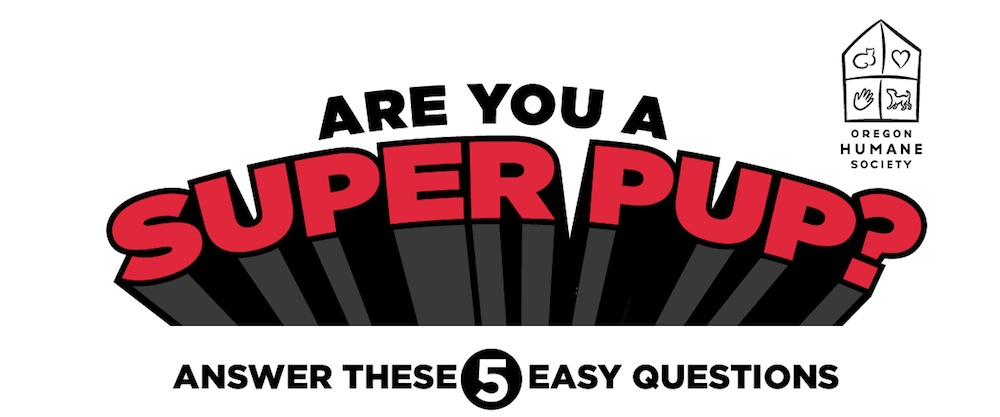
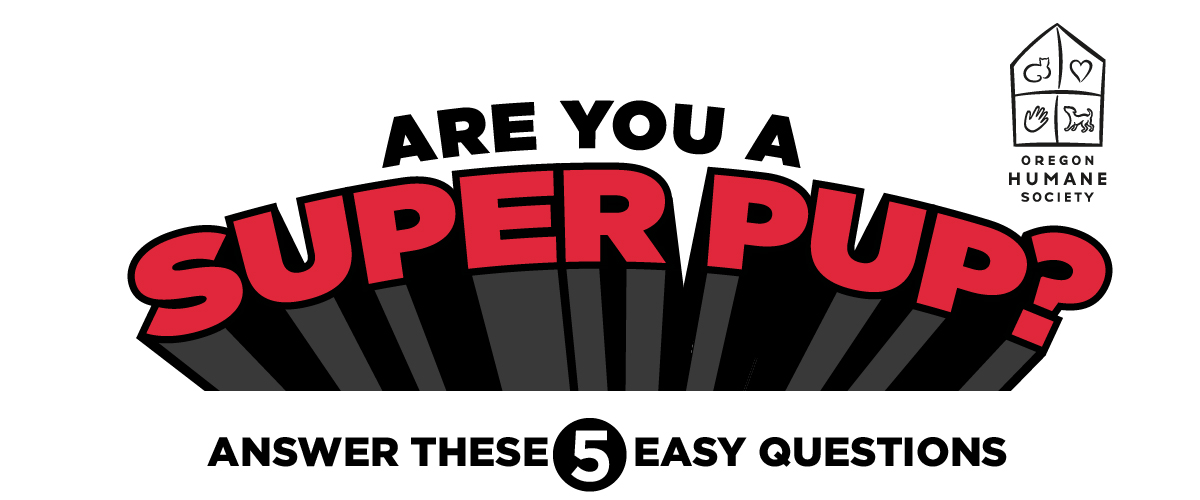
added gifs, result pages

diff --git a/index.html b/index.html
@@ -11,11 +11,11 @@
 
 <body>
   <div id="quizapp">
-    <div class="welcomePage">
-      <img src="img/quiz/SuperQuiz_Header.jpg" class="img-responsive" alt="Doggie Dash Super Quiz">
-      <a class="btn btn-success" id="startButton" role="button">Start Quiz Now!</a>
-      <img src="img/quiz/stars.jpg" class="img-responsive" alt="stars">
+    <div id="header">
+      <img src="img/quiz/SuperQuiz_Header.jpg" alt="Doggie Dash Super Quiz">
     </div>
+      <!--<a class="btn btn-success" id="startButton" role="button">Start Quiz Now!</a> -->
+      <img src="img/quiz/stars.jpg" class="img-responsive" alt="stars">
     
     <div class="questions"> 
       <div id="question1">
@@ -23,7 +23,7 @@
         <div class="answers">
           <div class="answerA">
             <input type="radio" name="question1" value="1">  I hop off the sofa, waddle over and lie happily right on their feet.</input>
-          
+          </div>
           <div class="answerB">
             <input type="radio" name="question1" value="1">  BARKING AT THE TOP OF MY LUNGS! LOUDNESS IS THE FINEST FORM OF LOVE!</input>
           </div>  
@@ -44,10 +44,13 @@
           </div>
         </div>  
       </div>
-    </div>
 
       <img src="img/quiz/stars.jpg" class="img-responsive" alt="stars">
-      
+      <br>
+      <img src="img/FlyingDoggie.gif" class="img-responsive" alt="Flying Dog">
+      <br>
+      <img src="img/quiz/stars.jpg" class="img-responsive" alt="stars">
+
       <div id="question2">
         <h3>What is your favorite part of going on a walk?</h3>
           <div class="answers">
@@ -105,6 +108,10 @@
       </div>
 
       <img src="img/quiz/stars.jpg" class="img-responsive" alt="stars">
+      <br>
+      <img src="img/bugEater.gif" class="img-responsive" alt="Chihuaha eating bug">
+      <br>
+      <img src="img/quiz/stars.jpg" class="img-responsive" alt="stars">
 
       <div id="question4">
         <h3>What's your ideal Saturday morning?</h3>
@@ -133,6 +140,10 @@
         </div>
       </div>
 
+      <img src="img/quiz/stars.jpg" class="img-responsive" alt="stars">
+      <br>
+      <img src="img/laserEyes.gif" class="img-responsive" alt="stars">
+      <br>
       <img src="img/quiz/stars.jpg" class="img-responsive" alt="stars">
 
       <div id="question5">
@@ -164,9 +175,12 @@
       
       <img src="img/quiz/stars.jpg" class="img-responsive" alt="stars"> 
       <br>
-      <img src="img/quiz/SuperQuiz_Button.jpg" class="img-responsive" id="findResult" role="button"></a>
 
+      <input type="image" src="img/quiz/SuperQuiz_Button.jpg" id="findResult" alt="What kind of Super Pup am I?">
+      <!--<img src="img/quiz/SuperQuiz_Button.jpg" class="img-responsive" id="findResult" role="button"></a>-->
+      <br>
       <img src="img/quiz/stars.jpg" class="img-responsive" alt="stars"> 
+
     </div>
   </div>
 

diff --git a/js/main.js b/js/main.js
@@ -67,19 +67,19 @@ $("input:radio").click(function() {
 
 	$("#findResult").click(function() {
 		if (counterA > counterB && counterA > counterC && counterA > counterD && counterA > counterE && counterA > counterF && counterA > counterG) {
-			window.location.href = "file://localhost/Users/adeats/Desktop/OHS2/snuggler.html";
+			window.location.href = "../snuggler.html";
 	} else if (counterB > counterA && counterB > counterC && counterB > counterD && counterB > 	counterE && counterB > counterF && counterB > counterG) {
-			window.location.href = "file://localhost/Users/adeats/Desktop/OHS2/bionicBark.html";
+			window.location.href = "../bionicBark.html";
 	} else if (counterC > counterA && counterC > counterB && counterC > counterD && counterC > counterE && counterC > counterF && counterC > counterG) {
-			window.location.href = "file://localhost/Users/adeats/Desktop/OHS2/enthusiastico.html";
+			window.location.href = "../enthusiastico.html";
 	} else if (counterD > counterA && counterD > counterB && counterD > counterC && counterD > counterE && counterD > counterF && counterD > counterG) {
-			window.location.href = "file://localhost/Users/adeats/Desktop/OHS2/cautious.html";
+			window.location.href = "../sniffer.html";
 	} else if (counterE > counterA && counterE > counterB && counterE > counterC && counterE > counterD && counterE > counterF && counterE > counterG) {
-			window.location.href = "file://localhost/Users/adeats/Desktop/OHS2/wag.html";
+			window.location.href = "../wag.html";
 	} else if (counterF > counterA && counterF > counterB && counterF > counterC && counterF > counterD && counterF > counterE && counterF > counterG) {
-			window.location.href = "file://localhost/Users/adeats/Desktop/OHS2/sniffer.html";
+			window.location.href = "../cautious.html";
 	} else if (counterG > counterA && counterG > counterB && counterG > counterC && counterG > counterD && counterG > counterE && counterG > counterF) {
-			window.location.href = "file://localhost/Users/adeats/Desktop/OHS2/cat.html";
+			window.location.href = "../cat.html";
 	}
 
 	});

diff --git a/bionicBark.html b/bionicBark.html
@@ -10,19 +10,39 @@
 </head>
 
 <body>
-  <div id="quizapp">
-    <div class="welcomePage">
-      <h2 id="welcome">Bionic Bark!!!</h2>
-      <a class="btn btn-success" id="startButton" role="button">Start Quiz Now!</a>
-    </div>
-    
 
+<div id="fb-root"></div>
+<script>(function(d, s, id) {
+  var js, fjs = d.getElementsByTagName(s)[0];
+  if (d.getElementById(id)) return;
+  js = d.createElement(s); js.id = id;
+  js.src = "//connect.facebook.net/en_US/all.js#xfbml=1";
+  fjs.parentNode.insertBefore(js, fjs);
+}(document, 'script', 'facebook-jssdk'));</script>
+  
+  <div id="bark">
+    <img src="img/Bark/SuperQuiz-Bark.jpg" class="img-responsive" alt="Bionic Bark">
+  </div>
+
+  <div class="bionicButtons">
+
+    <img src="img/Bark/Buttons/Bark_Download Cape.jpg" class="img-responsive" alt="Download Cape Pattern">
     
     <br>
-    <a class="btn btn-primary" id="findResult" role="button">Find Result</a>
     
-      
+    <img src="img/Bark/Buttons/Bark_Sign-Up.jpg" class="img-responsive" alt="Sign up for doggie dash">
     
+    <br>
+  
+    <div class="fb-share-button" data-href="http://www.oregonhumane.org/doggiedash/index.asp" data-width="400px" data-type="button"></div>
+    
+    <br>
+    
+    <a href="https://twitter.com/share" class="twitter-share-button" data-url="https://www.oregonhumane.org/doggiedash/" data-text="My Super Pup Power is the Bionic Bark - what's yours?" data-via="OregonHumane" data-size="large" data-hashtags="DoggieDash2014">Tweet</a>
+    <script>!function(d,s,id){var js,fjs=d.getElementsByTagName(s)[0],p=/^http:/.test(d.location)?'http':'https';if(!d.getElementById(id)){js=d.createElement(s);js.id=id;js.src=p+'://platform.twitter.com/widgets.js';fjs.parentNode.insertBefore(js,fjs);}}(document, 'script', 'twitter-wjs');</script>
+  </div>
+
+
 
 </body>
 </html>

diff --git a/enthusiastico.html b/enthusiastico.html
@@ -10,16 +10,19 @@
 </head>
 
 <body>
-  <div id="quizapp">
-    <div class="welcomePage">
-      <h2 id="welcome">ENTHUSIASTICO!!!</h2>
-      <a class="btn btn-success" id="startButton" role="button">Start Quiz Now!</a>
-    </div>
-    
+  <div id="enthusiastico">
+    <img src="img/Enthusiastico/SuperQuiz-Enthus.jpg" class="img-responsive" alt="Enthusiastico">
+  </div>
 
+  <div class="enthusButtons">
+
+    <img src="img/Enthusiastico/Buttons/Enthus_Download Cape.jpg" class="img-responsive" alt="Download Cape Pattern">
+      
+    <img src="img/Enthusiastico/Buttons/Enthus_Sign-Up.jpg" class="img-responsive" alt="Sign up for doggie dash">
     
-    <br>
-    <a class="btn btn-primary" id="findResult" role="button">Find Result</a>
+    <a href="https://twitter.com/share" class="twitter-share-button" data-url="https://www.oregonhumane.org/doggiedash/" data-text="My Super Pup Power is the Bionic Bark - what's yours?" data-via="OregonHumane" data-size="large" data-hashtags="DoggieDash2014">Tweet</a>
+    <script>!function(d,s,id){var js,fjs=d.getElementsByTagName(s)[0],p=/^http:/.test(d.location)?'http':'https';if(!d.getElementById(id)){js=d.createElement(s);js.id=id;js.src=p+'://platform.twitter.com/widgets.js';fjs.parentNode.insertBefore(js,fjs);}}(document, 'script', 'twitter-wjs');</script>
+  </div>
     
       
     

diff --git a/snuggler.html b/snuggler.html
@@ -10,19 +10,19 @@
 </head>
 
 <body>
-  <div id="quizapp">
-    <div class="welcomePage">
-      <h2 id="welcome">You are a snuggler!!!</h2>
-      <a class="btn btn-success" id="startButton" role="button">Start Quiz Now!</a>
-    </div>
-    
+<div id="snuggler">
+    <img src="img/Snuggler/SuperQuiz-Snuggler.jpg" class="img-responsive" alt="Snuggler">
+  </div>
 
-    
-    <br>
-    <a class="btn btn-primary" id="findResult" role="button">Find Result</a>
-    
+  <div class="snugglerButtons">
+
+    <img src="img/Snuggler/Buttons/Snuggler_Download Cape.jpg" class="img-responsive" alt="Download Cape Pattern">
       
+    <img src="img/Snuggler/Buttons/Snuggler_Sign-Up.jpg" class="img-responsive" alt="Sign up for doggie dash">
     
+    <a href="https://twitter.com/share" class="twitter-share-button" data-url="https://www.oregonhumane.org/doggiedash/" data-text="My Super Pup Power is the Bionic Bark - what's yours?" data-via="OregonHumane" data-size="large" data-hashtags="DoggieDash2014">Tweet</a>
+    <script>!function(d,s,id){var js,fjs=d.getElementsByTagName(s)[0],p=/^http:/.test(d.location)?'http':'https';if(!d.getElementById(id)){js=d.createElement(s);js.id=id;js.src=p+'://platform.twitter.com/widgets.js';fjs.parentNode.insertBefore(js,fjs);}}(document, 'script', 'twitter-wjs');</script>
+  </div>
 
 </body>
 </html>

diff --git a/cautious.html b/cautious.html
@@ -10,18 +10,19 @@
 </head>
 
 <body>
-  <div id="quizapp">
-    <div class="welcomePage">
-      <h2 id="welcome">CAUTIOUS!!!</h2>
-      <a class="btn btn-success" id="startButton" role="button">Start Quiz Now!</a>
-    </div>
-    
+  <div id="cautious">
+    <img src="img/Cautious/SuperQuiz-Cautious.jpg" class="img-responsive" alt="Cautious Crusader">
+  </div>
 
-    
-    <br>
-    <a class="btn btn-primary" id="findResult" role="button">Find Result</a>
-    
+  <div class="cautiousButtons">
+
+    <img src="img/Cautious/Buttons/Cautious_Download Cape.jpg" class="img-responsive" alt="Download Cape Pattern">
       
+    <img src="img/Cautious/Buttons/Cautious_Sign-Up.jpg" class="img-responsive" alt="Sign up for doggie dash">
+    
+    <a href="https://twitter.com/share" class="twitter-share-button" data-url="https://www.oregonhumane.org/doggiedash/" data-text="My Super Pup Power is the Bionic Bark - what's yours?" data-via="OregonHumane" data-size="large" data-hashtags="DoggieDash2014">Tweet</a>
+    <script>!function(d,s,id){var js,fjs=d.getElementsByTagName(s)[0],p=/^http:/.test(d.location)?'http':'https';if(!d.getElementById(id)){js=d.createElement(s);js.id=id;js.src=p+'://platform.twitter.com/widgets.js';fjs.parentNode.insertBefore(js,fjs);}}(document, 'script', 'twitter-wjs');</script>
+  </div>
     
 
 </body>

diff --git a/sniffer.html b/sniffer.html
@@ -10,17 +10,19 @@
 </head>
 
 <body>
-  <div id="quizapp">
-    <div class="welcomePage">
-      <h2 id="welcome">SNIFF SNIFF SNIFF</h2>
-      <a class="btn btn-success" id="startButton" role="button">Start Quiz Now!</a>
-    </div>
-    
+ <div id="sniffer">
+    <img src="img/Sniffer/SuperQuiz-Sniffer.jpg" class="img-responsive" alt="Sniffer">
+  </div>
 
+  <div class="snifferButtons">
+
+    <img src="img/Sniffer/Buttons/Sniffer_Download Cape.jpg" class="img-responsive" alt="Download Cape Pattern">
+      
+    <img src="img/Sniffer/Buttons/Sniffer_Sign-Up.jpg" class="img-responsive" alt="Sign up for doggie dash">
     
-    <br>
-    <a class="btn btn-primary" id="findResult" role="button">Find Result</a>
-    
+    <a href="https://twitter.com/share" class="twitter-share-button" data-url="https://www.oregonhumane.org/doggiedash/" data-text="My Super Pup Power is the Bionic Bark - what's yours?" data-via="OregonHumane" data-size="large" data-hashtags="DoggieDash2014">Tweet</a>
+    <script>!function(d,s,id){var js,fjs=d.getElementsByTagName(s)[0],p=/^http:/.test(d.location)?'http':'https';if(!d.getElementById(id)){js=d.createElement(s);js.id=id;js.src=p+'://platform.twitter.com/widgets.js';fjs.parentNode.insertBefore(js,fjs);}}(document, 'script', 'twitter-wjs');</script>
+  </div>
       
     
 

diff --git a/wag.html b/wag.html
@@ -10,18 +10,19 @@
 </head>
 
 <body>
-  <div id="quizapp">
-    <div class="welcomePage">
-      <h2 id="welcome">WAAAAAG</h2>
-      <a class="btn btn-success" id="startButton" role="button">Start Quiz Now!</a>
-    </div>
-    
+<div id="wag">
+    <img src="img/Wag/SuperQuiz-Wag.jpg" class="img-responsive" alt="Wag">
+  </div>
 
-    
-    <br>
-    <a class="btn btn-primary" id="findResult" role="button">Find Result</a>
-    
+  <div class="wagButtons">
+
+    <img src="img/Wag/Buttons/Wag_Download Cape.jpg" class="img-responsive" alt="Download Cape Pattern">
       
+    <img src="img/Wag/Buttons/Wag_Sign-Up.jpg" class="img-responsive" alt="Sign up for doggie dash">
+    
+    <a href="https://twitter.com/share" class="twitter-share-button" data-url="https://www.oregonhumane.org/doggiedash/" data-text="My Super Pup Power is the Bionic Bark - what's yours?" data-via="OregonHumane" data-size="large" data-hashtags="DoggieDash2014">Tweet</a>
+    <script>!function(d,s,id){var js,fjs=d.getElementsByTagName(s)[0],p=/^http:/.test(d.location)?'http':'https';if(!d.getElementById(id)){js=d.createElement(s);js.id=id;js.src=p+'://platform.twitter.com/widgets.js';fjs.parentNode.insertBefore(js,fjs);}}(document, 'script', 'twitter-wjs');</script>
+  </div>
     
 
 </body>

diff --git a/cat.html b/cat.html
@@ -10,16 +10,19 @@
 </head>
 
 <body>
-  <div id="quizapp">
-    <div class="welcomePage">
-      <h2 id="welcome">CAT MEOW</h2>
-      <a class="btn btn-success" id="startButton" role="button">Start Quiz Now!</a>
-    </div>
-    
+  <div id="cat">
+    <img src="img/Cat/SuperQuiz-Cat.jpg" class="img-responsive" alt="Cat">
+  </div>
 
+  <div class="catButtons">
+
+    <img src="img/Cat/Buttons/Cat_Download Cape.jpg" class="img-responsive" alt="Download Cape Pattern">
+      
+    <img src="img/Cat/Buttons/Cat_Sign-Up.jpg" class="img-responsive" alt="Sign up for doggie dash">
     
-    <br>
-    <a class="btn btn-primary" id="findResult" role="button">Find Result</a>
+    <a href="https://twitter.com/share" class="twitter-share-button" data-url="https://www.oregonhumane.org/doggiedash/" data-text="My Super Pup Power is the Bionic Bark - what's yours?" data-via="OregonHumane" data-size="large" data-hashtags="DoggieDash2014">Tweet</a>
+    <script>!function(d,s,id){var js,fjs=d.getElementsByTagName(s)[0],p=/^http:/.test(d.location)?'http':'https';if(!d.getElementById(id)){js=d.createElement(s);js.id=id;js.src=p+'://platform.twitter.com/widgets.js';fjs.parentNode.insertBefore(js,fjs);}}(document, 'script', 'twitter-wjs');</script>
+  </div>
     
       
     

diff --git a/css/bark.css b/css/bark.css
@@ -1,0 +1,11 @@
+html { 
+  background: url(img/Bark/SuperQuiz-Bark.jpg) no-repeat center center fixed; 
+  -webkit-background-size: cover;
+  -moz-background-size: cover;
+  -o-background-size: cover;
+  background-size: cover;
+}
+
+h5 {
+	color: red;
+}

diff --git a/css/main.css b/css/main.css
@@ -1,8 +1,20 @@
+
+
 #quizapp {
 	margin-top: 100px;
 	margin-left: 300px;
 	margin-right: 300px;
 	margin-bottom: 100px;
+}
+
+#header img {
+	width: 150%;
+	height: auto;
+	
+}
+
+.bionicButtons {
+	padding-left: 500px;
 }
 
 h3 {
